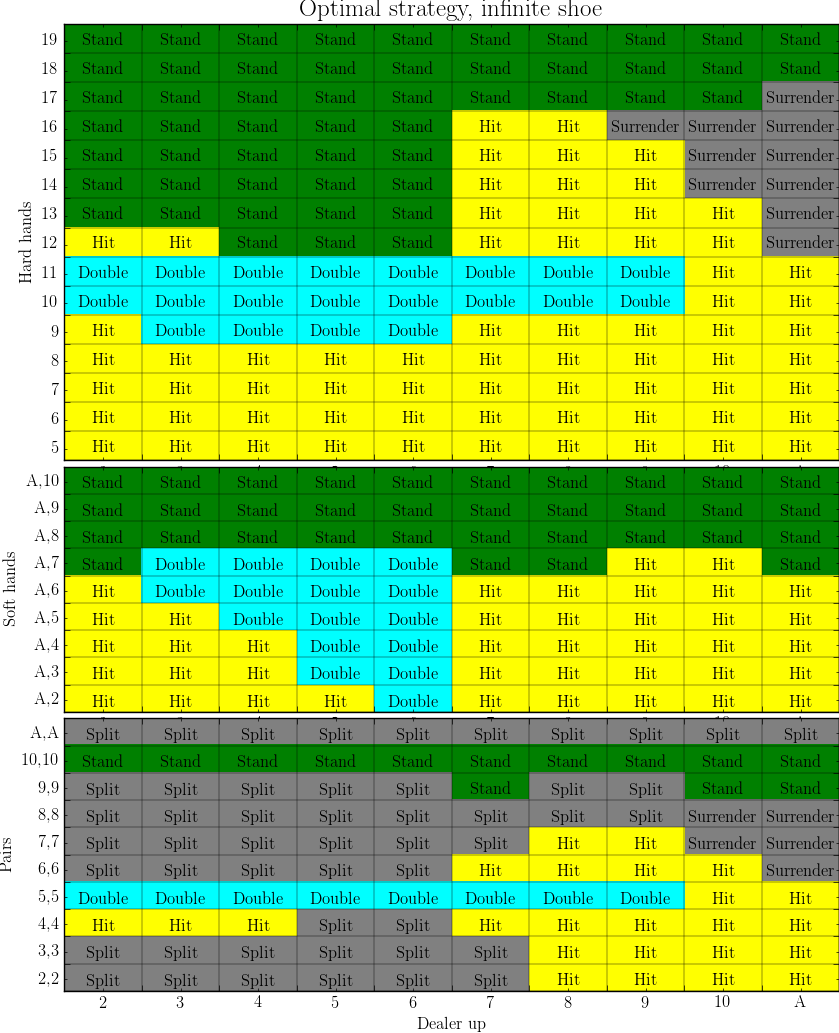
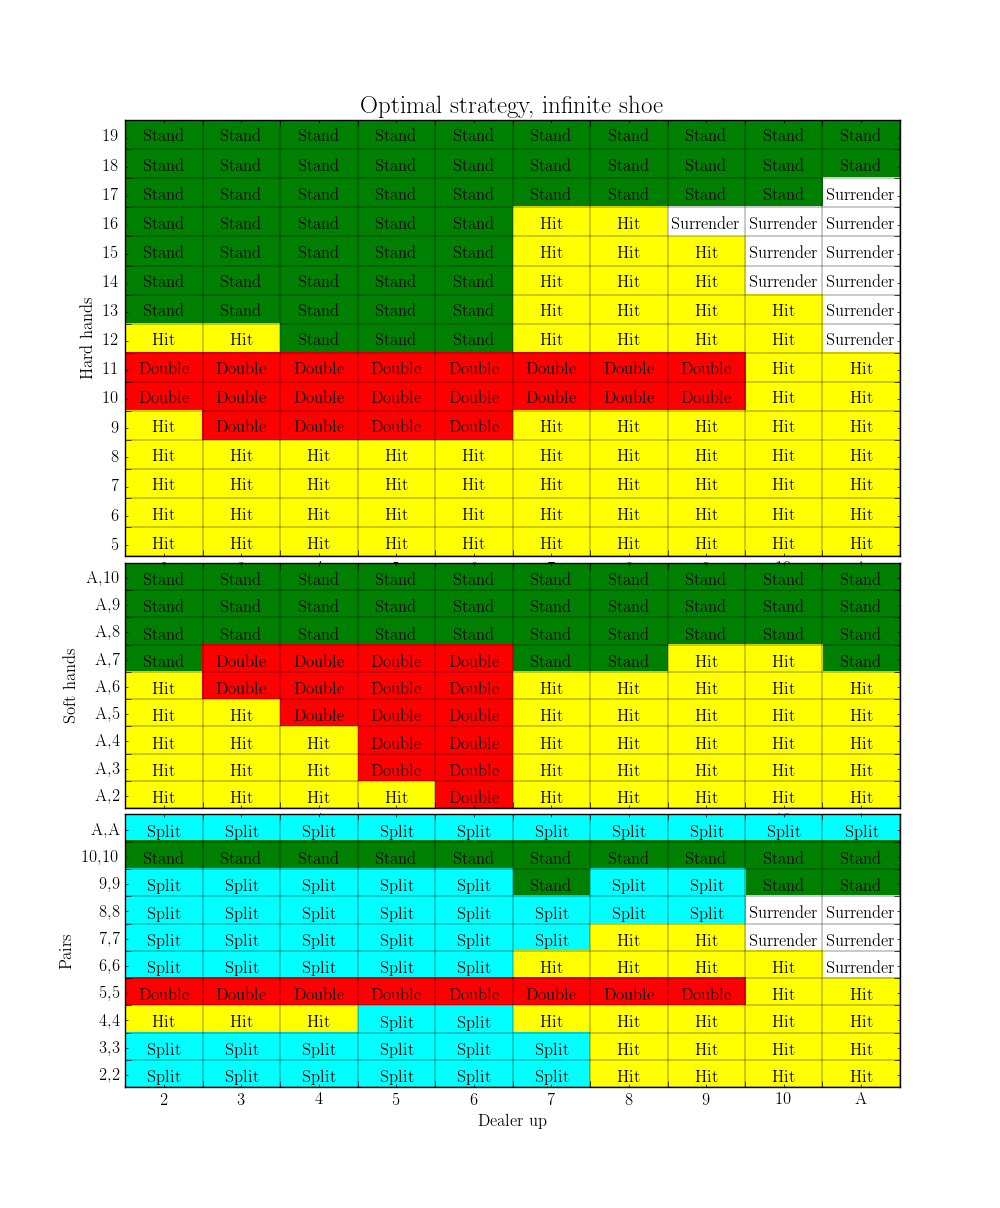
Added strategy options

diff --git a/cocalib.c b/cocalib.c
@@ -33,6 +33,10 @@ typedef struct {
 	int can_hit_split_aces;
 	real errtol;
 } Rules;
+typedef struct {
+	int actions[10][34]; 
+	int optimal; 
+} Strategy; 
 
 // prototypes
 void seed_rand(int seed);
@@ -45,36 +49,20 @@ void add_card_to_hand(Hand* hand, int card);
 int deal_card_to_hand_random(Shoe* shoe, Hand* hand);
 real deal_card_to_hand_choose(Shoe* shoe, Hand* hand, int card);
 void exp_stand(real bet, Hand hand, Hand dealer, Shoe shoe, Rules rules, real* exp);
-void expected_value(real bet, Hand hand, Hand dealer, Shoe shoe, Rules rules, int* best_action, real* all_exp);
+void expected_value(real bet, Hand hand, Hand dealer, Shoe shoe, Rules rules, Strategy strategy, int* best_action, real* all_exp);
 void chart_ind_from_hands(Hand hand, Hand dealer, int* my_ind, int* dealer_ind); 
-void simulate_unit_bet(Hand hand, Hand dealer, Shoe shoe, Rules rules, int* best_action, real* all_exp);
+void simulate_unit_bet(Hand hand, Hand dealer, Shoe shoe, Rules rules, Strategy strategy, int* best_action, real* all_exp);
 
 // the main function
-void simulate_unit_bet(Hand hand, Hand dealer, Shoe shoe, Rules rules, int* best_action, real* all_exp) {
-
-	// if these two hands are freshly dealt, 
-	// do pre-play options and side bets
-	if(dealer.depth == 1 && hand.depth == 2) {
-
-		// surrender forfiets half the bet.
-		// See if this beats anything
-		if(rules.allowed[SURRENDER])
-			all_exp[SURRENDER] = -0.5;
-
-		// TODO: insurance, side bets
-		// TODO: dealer 10 or A peeking against player blackjack
-	}
+void simulate_unit_bet(Hand hand, Hand dealer, Shoe shoe, Rules rules, Strategy strategy, int* best_action, real* all_exp) {
 
 	// simulate on the whole unit bet
 	// NOTE: assumes that all allowed moves have been passed correctly!
-	expected_value(1.0, hand, dealer, shoe, rules, best_action, all_exp);
-
-
-
+	expected_value(1.0, hand, dealer, shoe, rules, strategy, best_action, all_exp);
 }
 
 // returns the expected value for the best possible action for the given hand
-void expected_value(real bet, Hand hand, Hand dealer, Shoe shoe, Rules rules, int* best_action, real* all_exp) {
+void expected_value(real bet, Hand hand, Hand dealer, Shoe shoe, Rules rules, Strategy strategy, int* best_action, real* all_exp) {
 
 
 	// from WIZARD of ODDS:
@@ -82,7 +70,7 @@ void expected_value(real bet, Hand hand, Hand dealer, Shoe shoe, Rules rules, in
 	// after a split, split up to three times except for aces, and draw only one card to split
 	// aces. Based on these rules, the player's expected value is -0.511734%.'
 
-	int c, c0, c1, a, batmp;
+	int c, c0, c1, a, batmp, dealer_ind, my_ind;
 	real max_exp, prb, prc0, prc1, exptmp[6];
 	Hand ht0, ht1, htmp;
 	Shoe st0, st1, stmp;
@@ -134,7 +122,7 @@ void expected_value(real bet, Hand hand, Hand dealer, Shoe shoe, Rules rules, in
 				all_exp[HIT] -= prb*bet;	
 			} 
 			else  {
-				expected_value(prb*bet, htmp, dealer, stmp, rtmp, &batmp, exptmp);
+				expected_value(prb*bet, htmp, dealer, stmp, rtmp, strategy, &batmp, exptmp);
 				all_exp[HIT] += exptmp[batmp]; // use the action giving the highest expected outcome
 			}
 		}
@@ -202,25 +190,68 @@ void expected_value(real bet, Hand hand, Hand dealer, Shoe shoe, Rules rules, in
 				prc1 = deal_card_to_hand_choose(&st1, &ht1, c1); 
 
 				// play out the two sub-hand independently
-				expected_value(prc0*prc1*bet, ht0, dealer, st0, rtmp, &batmp, exptmp);
+				expected_value(prc0*prc1*bet, ht0, dealer, st0, rtmp, strategy, &batmp, exptmp);
 				all_exp[SPLIT] += exptmp[batmp];
-				expected_value(prc0*prc1*bet, ht1, dealer, st1, rtmp, &batmp, exptmp);
+				expected_value(prc0*prc1*bet, ht1, dealer, st1, rtmp, strategy, &batmp, exptmp);
 				all_exp[SPLIT] += exptmp[batmp];
 			}
 		}
 	}
 
+	// if these two hands are freshly dealt, 
+	// do pre-play options and side bets
+	rules.allowed[SURRENDER] *= (hand.depth <= 2);
+	if(dealer.depth == 1 && hand.depth == 2) {
+		// surrender forfiets half the bet.
+		// See if this beats anything
+		if(rules.allowed[SURRENDER])
+			all_exp[SURRENDER] = -0.5*bet;
+	}
+
+
 	// Decide which action yields the greatest expected value,
 	// given the current knowledge of the deck and visible cards
-	max_exp = -1000*bet;
-	for(a = 0; a < 6; ++a) {
-		if(!rules.allowed[a]) {
+	for(a = 0; a < 6; ++a)
+		if(!rules.allowed[a])
 			all_exp[a] = -1000*bet;
-			continue;
-		} 
-		if(all_exp[a] > max_exp) {
-			*best_action = a;
-			max_exp = all_exp[a];
+	if(strategy.optimal) {
+		max_exp = -1000*bet;
+		for(a = 0; a < 6; ++a) {
+			if(all_exp[a] > max_exp) {
+				*best_action = a;
+				max_exp = all_exp[a];
+			}
+		}
+	}
+	else {
+		if(hand.points > 19 && !hand.softness) {
+			*best_action = STAND;
+		}
+		else {
+			chart_ind_from_hands(hand, dealer, &my_ind, &dealer_ind);
+			*best_action = strategy.actions[dealer_ind][my_ind];
+			while(!rules.allowed[*best_action]) {
+
+				// seconday options from the strategy chart
+				if(*best_action == SURRENDER) {
+					if(hand.points >= 17)
+						*best_action = STAND;
+					else
+						*best_action = HIT;
+				}
+				else if(*best_action == DOUBLE)
+					*best_action = HIT;
+				else if(*best_action == SPLIT)
+					*best_action = HIT;
+				else if(*best_action == HIT)
+					*best_action = STAND;
+			}
+
+			//if(!rules.allowed[*best_action]) {
+				//printf("STOP! action = %d, rules = %d %d %d %d %d %d \n", *best_action,
+						//rules.allowed[0], rules.allowed[1], rules.allowed[2], rules.allowed[3], rules.allowed[4], rules.allowed[5]);
+				//exit(0);
+			//}
 		}
 	}
 }

diff --git a/coca.py b/coca.py
@@ -29,6 +29,14 @@ allCards = [2,3,4,5,6,7,8,9,10,11]
 cardLabels = ["", "", "2","3","4","5","6","7","8","9","10","A"]
 actionLabels = ["Stand ", "Hit   ", "Double", "Split ", "Surrender", "Insurance", ""]
 
+# built-in strategy tables
+tables = {
+    # basic strategy generated by this program for an infinite deck
+    'default_table': (np.fromfile('tables/basic_strategy_infinite_deck_actions.np',
+        dtype=np.int32).reshape((10,34)), np.fromfile('tables/basic_strategy_infinite_deck_exp.np',
+            dtype=np.float64).reshape((10,34,6))), 
+}
+
 # TODO: define different sets of default rules?
 vegasRules = {}
 
@@ -90,7 +98,7 @@ class Rules(Structure):
             ("dealer_hits_soft_17", c_int), ("can_hit_split_aces", c_int), ("errtol", c_double)]
 
     def __init__(self, allowed_actions=[1,1,1,1,1,0], max_split_depth=2, double_after_split=1,
-        dealer_hits_soft_17=0, can_hit_split_aces=0, errtol=1.0e-10):
+        dealer_hits_soft_17=0, can_hit_split_aces=0, errtol=1.0e-8):
 
         for i, act in enumerate(allowed_actions):
             self.allowed[i] = act
@@ -102,6 +110,44 @@ class Rules(Structure):
 
     def __str__(self):
         mystr = 'Rules:\n'
+        #mystr += ' allowed_moves = '
+        return mystr
+
+class Strategy(Structure):
+
+    # c struct fields 
+    _fields_ = [("actions", 340*c_int), ("optimal", c_int)]
+
+    def __init__(self, type='optimal'):
+
+        self.type = type
+        self.optimal = 0
+
+        if self.type == 'optimal':
+            self.optimal = 1
+
+        elif self.type == 'optimal_infinite_deck':
+            actions = [ 0, 0, 0, 0, 0, 0, 0, 1, 2, 2, 1, 1, 1, 1, 1, 0, 0, 0, 0, 1, 1, 1, 1, 1, 3,
+            0, 3, 3, 3, 3, 2, 1, 3, 3, 0, 0, 0, 0, 0, 0, 0, 1, 2, 2, 2, 1, 1, 1, 1, 0, 0, 0, 2, 2,
+            1, 1, 1, 1, 3, 0, 3, 3, 3, 3, 2, 1, 3, 3, 0, 0, 0, 0, 0, 0, 0, 0, 2, 2, 2, 1, 1, 1, 1,
+            0, 0, 0, 2, 2, 2, 1, 1, 1, 3, 0, 3, 3, 3, 3, 2, 1, 3, 3, 0, 0, 0, 0, 0, 0, 0, 0, 2, 2,
+            2, 1, 1, 1, 1, 0, 0, 0, 2, 2, 2, 2, 2, 1, 3, 0, 3, 3, 3, 3, 2, 3, 3, 3, 0, 0, 0, 0, 0,
+            0, 0, 0, 2, 2, 2, 1, 1, 1, 1, 0, 0, 0, 2, 2, 2, 2, 2, 2, 3, 0, 3, 3, 3, 3, 2, 3, 3, 3,
+            0, 0, 0, 1, 1, 1, 1, 1, 2, 2, 1, 1, 1, 1, 1, 0, 0, 0, 0, 1, 1, 1, 1, 1, 3, 0, 0, 3, 3,
+            1, 2, 1, 3, 3, 0, 0, 0, 1, 1, 1, 1, 1, 2, 2, 1, 1, 1, 1, 1, 0, 0, 0, 0, 1, 1, 1, 1, 1,
+            3, 0, 3, 3, 1, 1, 2, 1, 1, 1, 0, 0, 0, 4, 1, 1, 1, 1, 2, 2, 1, 1, 1, 1, 1, 0, 0, 0, 1,
+            1, 1, 1, 1, 1, 3, 0, 3, 3, 1, 1, 2, 1, 1, 1, 0, 0, 0, 4, 4, 4, 1, 1, 1, 1, 1, 1, 1, 1,
+            1, 0, 0, 0, 1, 1, 1, 1, 1, 1, 3, 0, 0, 4, 4, 1, 1, 1, 1, 1, 0, 0, 4, 4, 4, 4, 4, 4, 1,
+            1, 1, 1, 1, 1, 1, 0, 0, 0, 0, 1, 1, 1, 1, 1, 3, 0, 0, 4, 4, 4, 1, 1, 1, 1, ] 
+            for i in xrange(340):
+                self.actions[i] = c_int(actions[i])
+
+        else:
+            raise ValueError("Invalid strategy type.") 
+
+
+    def __str__(self):
+        mystr = 'Strategy:\n'
         #mystr += ' allowed_moves = '
         return mystr
 
@@ -121,15 +167,18 @@ def dealCardToHand(shoe, hand, card = 11, way = 'random'):
 
 
 # returns the optimal move based on the desired strategy 
-def getOptimalMove(shoe, dealer_hand, my_hand, rules=Rules(), strategy = 'optimal'):
-
-    if strategy == 'optimal':
+def getAction(shoe, dealer_hand, my_hand, rules=Rules(), strategy=Strategy(), return_exp=True):
+    if strategy.optimal or return_exp:
         exp_values = np.array([0.0,0.0,0.0,0.0,0.0,0.0], dtype=np.float64) 
         action = c_int(0)
-        _caco.simulate_unit_bet(my_hand, dealer_hand, shoe, rules, byref(action),
+        _caco.simulate_unit_bet(my_hand, dealer_hand, shoe, rules, strategy, byref(action),
                 exp_values.ctypes.data_as(POINTER(c_double)))
-
-        return action.value, exp_values
+        if return_exp:
+            return action.value, exp_values
+        else:
+            return action.value
+    else:
+        return strategy.fromTable(dealer_hand, my_hand)
 
 def getChartIndFromCards(my_hand, dealer_hand):
 
@@ -141,7 +190,7 @@ def getChartIndFromCards(my_hand, dealer_hand):
     return (dealer_ind.value, my_ind.value) 
 
 
-# returns the optimal move based on the desired strategy 
+# simulates a hand of blackjack given the optimal strategy
 def simulateGame(max_hands=50, num_decks=6, num_players=4, rules=vegasRules, strategy='omniscient', seed=None):
 
     if seed is None:

diff --git a/deal_probabilities.py b/deal_probabilities.py
@@ -14,10 +14,16 @@ shoe = coca.Shoe(numdecks=-1)
 dealprob = np.zeros((10, 34), dtype=np.float64)
 weightedexp = np.zeros((10, 34), dtype=np.float64)
 
-# load action tables and expected values for the infinite deck case
-best_action = np.fromfile('tables/basic_strategy_infinite_deck_actions.np', dtype=np.int32).reshape((10,34))
-all_exp = np.fromfile('tables/basic_strategy_infinite_deck_exp.np', dtype=np.float64).reshape((10,34,6))
+best_action = np.fromfile('tables/basic_strategy_infinite_deck_actions.np', 
+         dtype=np.int32).reshape((10,34))
+all_exp = np.fromfile('tables/basic_strategy_infinite_deck_exp.np',
+         dtype=np.float64).reshape((10,34,6))
 best_exp = np.array([[all_exp[d,m,best_action[d,m]] for m in xrange(34)] for d in xrange(10)])
+
+print '[',
+for a in best_action.flatten():
+    print '%d,'%a,
+print ']'
 
 # pairs 
 tstart = time.time()
@@ -41,6 +47,8 @@ for d0 in coca.allCards:
             prb *= coca.dealCardToHand(shoe, my_hand, card=m0, way='choose')
             prb *= coca.dealCardToHand(shoe, my_hand, card=m1, way='choose')
             ind = coca.getChartIndFromCards(my_hand, dealer_hand)
+            #coca.getAction(shoe, my_hand, dealer_hand, )
+            ind = coca.getChartIndFromCards(my_hand, dealer_hand)
             dealprob[ind] += prb 
             weightedexp[ind] += prb*best_exp[ind]
 
@@ -56,13 +64,13 @@ fig, ax = coca.plotChart(best_exp,
         title='Expected win/loss given perfect play,\ninfinite shoe (total = %+.3f pct)' %
         (100.0*np.sum(weightedexp)), 
         textarr=best_exp, textfmt=(lambda x, a: '%+.4f'%x), cmap=plt.cm.RdYlGn, vrange=vrange)
-#fig.savefig('img/hand_expectations.png', bbox_inches = 'tight', pad_inches = 0)
+fig.savefig('img/hand_expectations.png', bbox_inches = 'tight', pad_inches = 0)
 
 
 fig, ax = coca.plotChart(dealprob, title='Deal probability, infinite shoe', 
         textarr=dealprob,
-        textfmt=(lambda x, a: '%.3e'%x), cmap=plt.cm.RdBu_r)
-#fig.savefig('img/deal_probabilities.png', bbox_inches = 'tight', pad_inches = 0)
+        textfmt=(lambda x, a: '%.3e'%x), cmap=plt.cm.PuBuGn_r)
+fig.savefig('img/deal_probabilities.png', bbox_inches = 'tight', pad_inches = 0)
 
 
 

diff --git a/basic_strategy_infinite_deck.py b/basic_strategy_infinite_deck.py
@@ -19,7 +19,9 @@ def print_color_no_return(str, color):
 # a new infinite shoe
 shoe = coca.Shoe(numdecks=-1)
 rules = coca.Rules(allowed_actions=[1,1,1,1,1,0], max_split_depth=2, double_after_split=1,
-        dealer_hits_soft_17=0, can_hit_split_aces=0, errtol=1.0e-4)
+        dealer_hits_soft_17=0, can_hit_split_aces=0, errtol=1.0e-5)
+strategy = coca.Strategy(type='optimal_infinite_deck')
+#strategy = coca.Strategy(type='optimal')
 best_action = np.empty((10, 34), dtype=np.int32)
 all_exp = np.empty((10, 34, 6), dtype=np.float64)
 tstart = time.time()
@@ -48,7 +50,8 @@ for my_points in xrange(19, 4, -1):
         my_hand.ispair = 0
         
         # get the best possible action and its expected value
-        action, exp =  coca.getOptimalMove(shoe, dealer_hand, my_hand, rules=rules)
+        action, exp =  coca.getAction(shoe, dealer_hand, my_hand, rules=rules, strategy=strategy)
+        #print exp
         print_color_no_return("%s (%+.5f)\t" % (coca.actionLabels[action], exp[action]),
                 action_colors[action])
         ind = coca.getChartIndFromCards(my_hand, dealer_hand)
@@ -75,7 +78,7 @@ for my_points in xrange(10, 1, -1):
         my_hand.addCard(my_points)
 
         # get the best possible action and its expected value
-        action, exp =  coca.getOptimalMove(shoe, dealer_hand, my_hand, rules=rules)
+        action, exp =  coca.getAction(shoe, dealer_hand, my_hand, rules=rules, strategy=strategy)
         print_color_no_return("%s (%+.5f)\t" % (coca.actionLabels[action], exp[action]),
                 action_colors[action])
         ind = coca.getChartIndFromCards(my_hand, dealer_hand)
@@ -103,7 +106,7 @@ for my_points in xrange(11, 1, -1):
         my_hand.addCard(my_points)
 
         # get the best possible action and its expected value
-        action, exp =  coca.getOptimalMove(shoe, dealer_hand, my_hand, rules=rules)
+        action, exp =  coca.getAction(shoe, dealer_hand, my_hand, rules=rules, strategy=strategy)
         print_color_no_return("%s (%+.5f)\t" % (coca.actionLabels[action], exp[action]),
                 action_colors[action])
         ind = coca.getChartIndFromCards(my_hand, dealer_hand)
